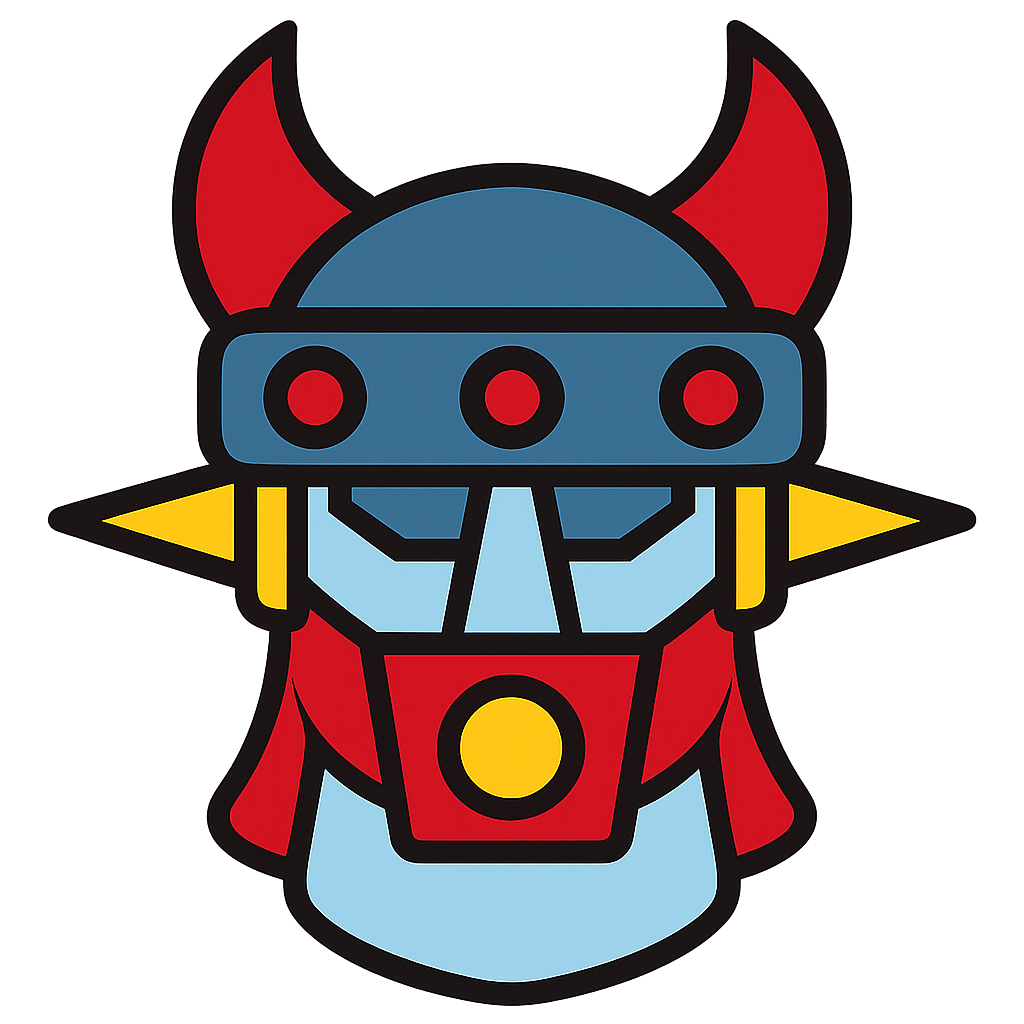
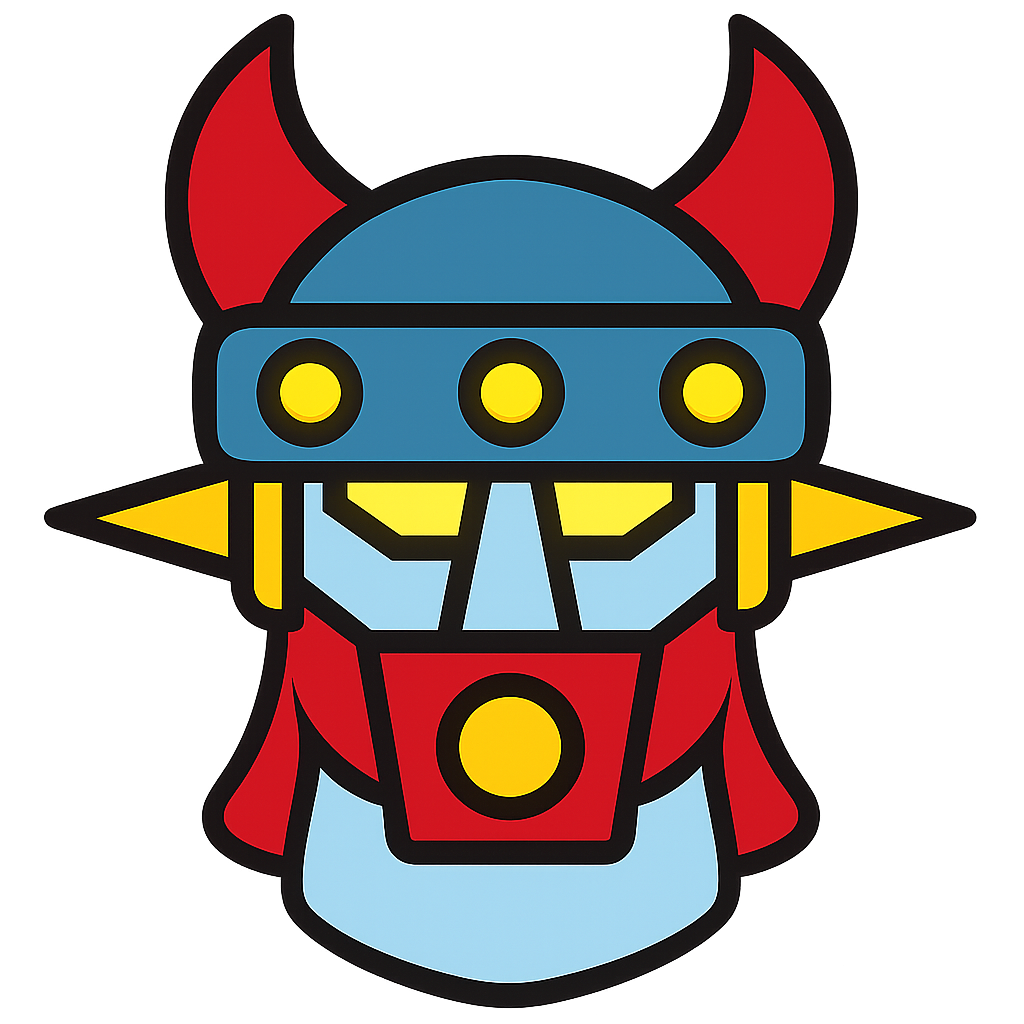
Taekwon V uses the yellow-dot face
Claude-Session: https://claude.ai/code/session_019QwctBLnb4UTXMJBnbargq

diff --git a/index.html b/index.html
@@ -2078,7 +2078,7 @@ const faceHTML = (e, who = 'suit') => FACE_ART[who][e] || FACE_ART.suit[e] || e;
 // 같은 그림이 여러 개 있어도 박자가 겹치지 않게 시작점을 흩뜨림
 // 그림을 다시 그려도 폰에 남은 옛 그림이 보이지 않게 주소에 버전을 붙임
 // 파일마다 내용이 바뀔 때만 새로 받도록 파일 해시를 붙임 (빌드할 때 채움)
-const ART_HASH = {"tile-gundam-a.png": "41a00219", "ind-school-a.png": "1b0fc977", "robot-cobot-cook-b.png": "3f739fa6", "tile-tool-a.png": "f174149f", "tile-made-a.png": "d557ba97", "ind-training-b.png": "0efc1d0b", "robot-qarm-a.png": "901f7afc", "tile-legs-b.png": "c0299b41", "tile-union-b.png": "b3a03a42", "tile-mgodz-b.png": "64821f9c", "robot-indus-b.png": "4a7cabef", "face-cook-frown.png": "e01a4907", "face-cook-neutral.png": "71441525", "ind-battery-b.png": "6e2bd18d", "ind-fire-a.png": "a71484d3", "face-trump-neutral.png": "5aecac90", "tile-legs-a.png": "2faadad6", "face-worker-angry.png": "eb6b88ed", "ind-steel-a.png": "0f070238", "face-suitf-delight.png": "d729900f", "tile-iarm-a.png": "fc127d92", "ind-steel-b.png": "e122612f", "ind-defense-b.png": "5aa959f1", "face-cook-angry.png": "50c65318", "ind-port-b.png": "6f5dc395", "tile-tf-a.png": "d2bc0939", "ind-factory-a.png": "909659fd", "tile-grendizer-b.png": "74053d86", "tile-term-b.png": "fa8e5b3f", "face-neutral.png": "a9a959b5", "tile-wheel-a.png": "9e98ebac", "face-cook-smile.png": "be9219e0", "robot-indus-a.png": "ba4c70bc", "tile-korea-b.png": "ebe1008b", "face-trump-tear.png": "21d22245", "tile-auto-b.png": "bb58686e", "ind-material-b.png": "a8f27197", "tile-korea-a.png": "d1987f19", "tile-union-a.png": "d48507d4", "ind-auto-a.png": "9a8abf4f", "tile-taekwonv-b.png": "0c7df26c", "face-frown.png": "26865767", "robot-centaur-a.png": "a9e1e03b", "tile-auto-a.png": "e7100d25", "robot-cobot-cook-a.png": "2acb022c", "face-worker-tear.png": "940dcfc3", "ind-autoparts-b.png": "a5dbd76a", "face-suitf-angry.png": "5b24ceb5", "tile-iarm-b.png": "f0647318", "face-suitf-tear.png": "d0923069", "robot-centaur-b.png": "848f1932", "robot-mm-a.png": "e5da97cf", "ind-defense-a.png": "23a0651c", "robot-quad-a.png": "1e1384cf", "ind-autoparts-a.png": "26dcf7ce", "tile-eva-b.png": "b64d5546", "face-cook-tear.png": "d529800c", "tile-gundam-b.png": "69722c17", "face-trump-delight.png": "e41c1f7d", "face-angry.png": "8542c3c5", "tile-floor-b.png": "7bfb4d09", "face-suitf-smile.png": "2bfa949d", "ind-material-a.png": "2c67685e", "tile-mazinger-a.png": "2400cdc5", "tile-term-a.png": "f86a988f", "tile-eva-a.png": "48055f29", "tile-hum-a.png": "cdc85433", "ind-port-a.png": "0e5340b9", "ind-police-a.png": "717025fa", "wheel-tilt-ref.png": "4a1e31a2", "robot-cobot-a.png": "bb066d5e", "tile-mazinger-b.png": "dd429822", "face-trump-angry.png": "6fc0cf6d", "tile-wheel-b.png": "df5d2104", "indus-ref.png": "2bfe4680", "face-worker-neutral.png": "f4f1ff96", "robot-amr-a.png": "21455470", "face-delight.png": "4b63238d", "face-trump-frown.png": "4102f723", "robot-mm-b.png": "41cc89c7", "ind-fire-b.png": "c530534e", "ind-police-b.png": "750b1169", "ind-ess-b.png": "c7fac005", "ind-training-a.png": "a9fe00e5", "tile-mgodz-a.png": "36243d52", "tile-tf-b.png": "23f3efda", "ind-aircraft-a.png": "53a6b218", "ind-school-b.png": "a14af652", "tile-arm-b.png": "6cb9dab3", "tile-taekwonv-a.png": "7d4274d9", "face-worker-delight.png": "56fdb189", "face-worker-smile.png": "7eaefd7c", "robot-quad-b.png": "9b27fe7b", "ind-chicken-a.png": "bd4bc4e3", "face-cook-delight.png": "5ceb20b0", "ind-battery-a.png": "2ead7359", "robot-agv-b.png": "397f8942", "face-tear.png": "7cacead6", "face-suitf-neutral.png": "b29259fe", "ind-auto-b.png": "f90715bb", "ind-shipyard-a.png": "7c43481e", "tile-grendizer-a.png": "9216993d", "tile-tool-b.png": "c8c8a23a", "ind-factory-b.png": "b9dfaab4", "ind-chicken-b.png": "b4930a6b", "ind-shipyard-b.png": "098fdbae", "robot-qarm-b.png": "abd9a737", "tile-arm-a.png": "cd420a51", "tile-made-b.png": "7077aabd", "tile-floor-a.png": "14074a30", "robot-cobot-weld-a.png": "da53987b", "robot-agv-a.png": "ee67b65c", "ind-logistics-b.png": "9c5aeeca", "face-smile.png": "786eeb95", "face-worker-frown.png": "0f8d8086", "robot-cobot-weld-b.png": "a9e69108", "robot-amr-b.png": "09f47fab", "tile-hum-b.png": "01ca7c8b", "ind-ess-a.png": "83fff111", "face-suitf-frown.png": "1236f440", "ind-aircraft-b.png": "6afa5f2a", "face-trump-smile.png": "03674df8", "robot-cobot-b.png": "7ea58bc1", "ind-logistics-a.png": "b1b04f38"};
+const ART_HASH = {"tile-gundam-a.png": "41a00219", "ind-school-a.png": "1b0fc977", "robot-cobot-cook-b.png": "3f739fa6", "tile-tool-a.png": "f174149f", "tile-made-a.png": "d557ba97", "ind-training-b.png": "0efc1d0b", "robot-qarm-a.png": "901f7afc", "tile-legs-b.png": "c0299b41", "tile-union-b.png": "b3a03a42", "tile-mgodz-b.png": "64821f9c", "robot-indus-b.png": "4a7cabef", "face-cook-frown.png": "e01a4907", "face-cook-neutral.png": "71441525", "ind-battery-b.png": "6e2bd18d", "ind-fire-a.png": "a71484d3", "face-trump-neutral.png": "5aecac90", "tile-legs-a.png": "2faadad6", "face-worker-angry.png": "eb6b88ed", "ind-steel-a.png": "0f070238", "face-suitf-delight.png": "d729900f", "tile-iarm-a.png": "fc127d92", "ind-steel-b.png": "e122612f", "ind-defense-b.png": "5aa959f1", "face-cook-angry.png": "50c65318", "ind-port-b.png": "6f5dc395", "tile-tf-a.png": "d2bc0939", "ind-factory-a.png": "909659fd", "tile-grendizer-b.png": "74053d86", "tile-term-b.png": "fa8e5b3f", "face-neutral.png": "a9a959b5", "tile-wheel-a.png": "9e98ebac", "face-cook-smile.png": "be9219e0", "robot-indus-a.png": "ba4c70bc", "tile-korea-b.png": "ebe1008b", "face-trump-tear.png": "21d22245", "tile-auto-b.png": "bb58686e", "ind-material-b.png": "a8f27197", "tile-korea-a.png": "d1987f19", "tile-union-a.png": "d48507d4", "ind-auto-a.png": "9a8abf4f", "tile-taekwonv-b.png": "0c7df26c", "face-frown.png": "26865767", "robot-centaur-a.png": "a9e1e03b", "tile-auto-a.png": "e7100d25", "robot-cobot-cook-a.png": "2acb022c", "face-worker-tear.png": "940dcfc3", "ind-autoparts-b.png": "a5dbd76a", "face-suitf-angry.png": "5b24ceb5", "tile-iarm-b.png": "f0647318", "face-suitf-tear.png": "d0923069", "robot-centaur-b.png": "848f1932", "robot-mm-a.png": "e5da97cf", "ind-defense-a.png": "23a0651c", "robot-quad-a.png": "1e1384cf", "ind-autoparts-a.png": "26dcf7ce", "tile-eva-b.png": "b64d5546", "face-cook-tear.png": "d529800c", "tile-gundam-b.png": "69722c17", "face-trump-delight.png": "e41c1f7d", "face-angry.png": "8542c3c5", "tile-floor-b.png": "7bfb4d09", "face-suitf-smile.png": "2bfa949d", "ind-material-a.png": "2c67685e", "tile-mazinger-a.png": "2400cdc5", "tile-term-a.png": "f86a988f", "tile-eva-a.png": "48055f29", "tile-hum-a.png": "cdc85433", "ind-port-a.png": "0e5340b9", "ind-police-a.png": "717025fa", "wheel-tilt-ref.png": "4a1e31a2", "robot-cobot-a.png": "bb066d5e", "tile-mazinger-b.png": "dd429822", "face-trump-angry.png": "6fc0cf6d", "tile-wheel-b.png": "df5d2104", "indus-ref.png": "2bfe4680", "face-worker-neutral.png": "f4f1ff96", "robot-amr-a.png": "21455470", "face-delight.png": "4b63238d", "face-trump-frown.png": "4102f723", "robot-mm-b.png": "41cc89c7", "ind-fire-b.png": "c530534e", "ind-police-b.png": "750b1169", "ind-ess-b.png": "c7fac005", "ind-training-a.png": "a9fe00e5", "tile-mgodz-a.png": "36243d52", "tile-tf-b.png": "23f3efda", "ind-aircraft-a.png": "53a6b218", "ind-school-b.png": "a14af652", "tile-arm-b.png": "6cb9dab3", "tile-taekwonv-a.png": "0c7df26c", "face-worker-delight.png": "56fdb189", "face-worker-smile.png": "7eaefd7c", "robot-quad-b.png": "9b27fe7b", "ind-chicken-a.png": "bd4bc4e3", "face-cook-delight.png": "5ceb20b0", "ind-battery-a.png": "2ead7359", "robot-agv-b.png": "397f8942", "face-tear.png": "7cacead6", "face-suitf-neutral.png": "b29259fe", "ind-auto-b.png": "f90715bb", "ind-shipyard-a.png": "7c43481e", "tile-grendizer-a.png": "9216993d", "tile-tool-b.png": "c8c8a23a", "ind-factory-b.png": "b9dfaab4", "ind-chicken-b.png": "b4930a6b", "ind-shipyard-b.png": "098fdbae", "robot-qarm-b.png": "abd9a737", "tile-arm-a.png": "cd420a51", "tile-made-b.png": "7077aabd", "tile-floor-a.png": "14074a30", "robot-cobot-weld-a.png": "da53987b", "robot-agv-a.png": "ee67b65c", "ind-logistics-b.png": "9c5aeeca", "face-smile.png": "786eeb95", "face-worker-frown.png": "0f8d8086", "robot-cobot-weld-b.png": "a9e69108", "robot-amr-b.png": "09f47fab", "tile-hum-b.png": "01ca7c8b", "ind-ess-a.png": "83fff111", "face-suitf-frown.png": "1236f440", "ind-aircraft-b.png": "6afa5f2a", "face-trump-smile.png": "03674df8", "robot-cobot-b.png": "7ea58bc1", "ind-logistics-a.png": "b1b04f38"};
 // 게임에서는 가벼운 webp(assets/w/)를 씀. 파일 이름은 png와 같고 확장자만 다름
 const av = f => { const n = f.replace('assets/', ''); return `assets/w/${n.replace(/\.png$/, '.webp')}?v=${ART_HASH[n] || '0'}`; };
 // 업종 아이콘(ind-)은 a프레임만, 로봇·부품은 a·b를 번갈아 (팔이 까딱, 다리가 제자리걸음 등)
@@ -2453,7 +2453,7 @@ function banner(text, delay) {
 }
 
 // ───────── 진행 ─────────
-const BUILD_V = '1003-220756';
+const BUILD_V = '1003-220819';
 function loop(t) {
   const dt = Math.min(0.1, (t - (S.last || t)) / 1000);
   S.last = t;
